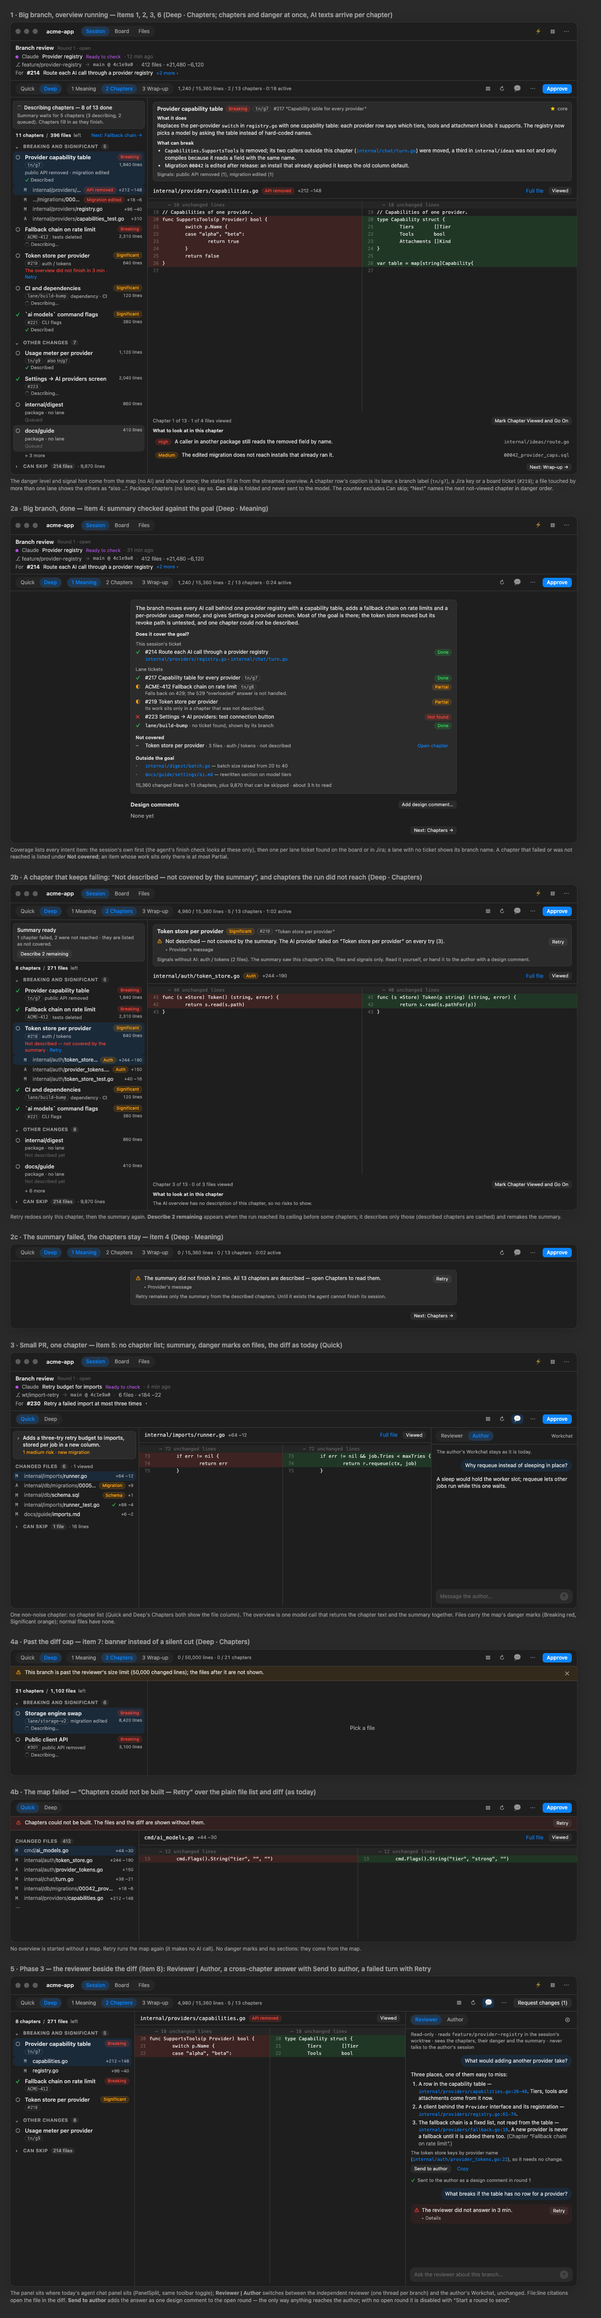
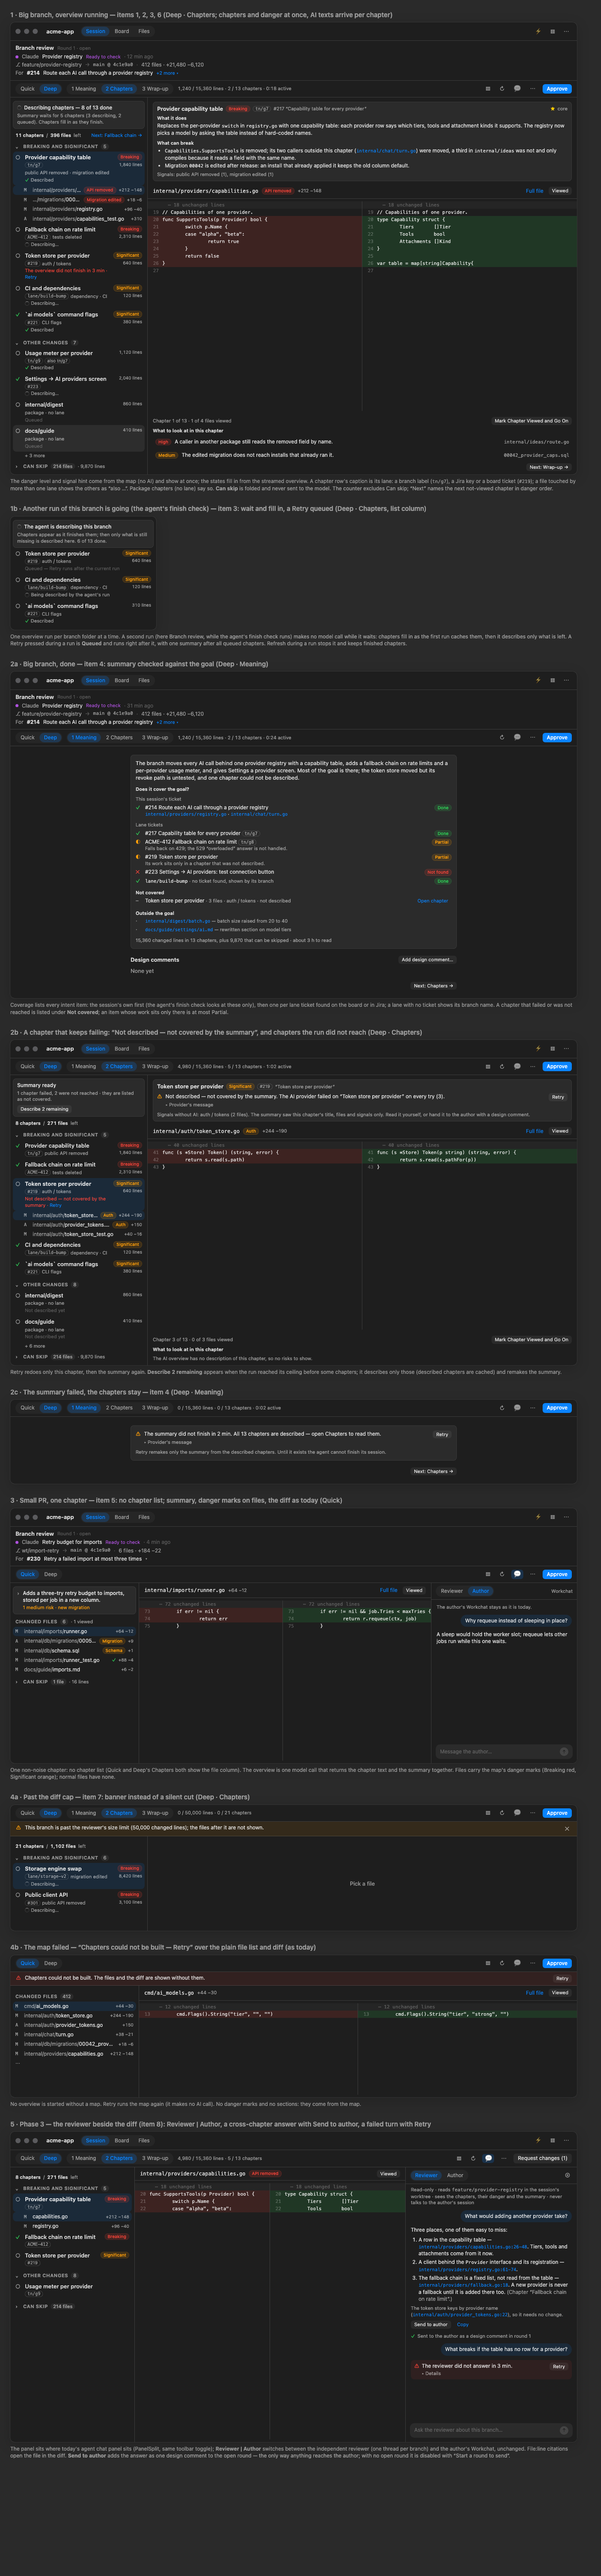
docs(spec): big-branch review — owner review of ask #569 (one run at a time, reviewer switch, done-when per item)

diff --git a/docs/design/mockups/big-branch-review/index.html b/docs/design/mockups/big-branch-review/index.html
@@ -327,6 +327,41 @@ h1.frame code { font-size: 12px; font-weight: 500; }
 </div>
 <p class="note">The danger level and signal hint come from the map (no AI) and show at once; the states fill in from the streamed overview. A chapter row's caption is its lane: a branch label (<span class="mono">tn/g7</span>), a Jira key or a board ticket (<span class="mono">#219</span>); a file touched by more than one lane shows the others as “also …”. Package chapters (no lane) say so. <b>Can skip</b> is folded and never sent to the model. The counter excludes Can skip; “Next” names the next not-viewed chapter in danger order.</p>
 
+<!-- ============================================================= 1b -->
+<h1 class="frame">1b · Another run of this branch is going (the agent's finish check) — item 3: wait and fill in, a Retry queued (Deep · Chapters, list column)</h1>
+<div class="win" style="width:340px">
+  <div class="body" style="grid-template-columns: 1fr; min-height: 0;">
+    <div class="col" style="border-right:none">
+      <div class="card">
+        <div style="display:flex;align-items:center;gap:6px;font-size:12px"><span class="spin"></span><b style="font-weight:500">The agent is describing this branch</b></div>
+        <div class="sec" style="font-size:11px;margin-top:3px">Chapters appear as it finishes them; then only what is still missing is described here. 6 of 13 done.</div>
+      </div>
+      <div class="ch">
+        <span class="ck">○</span>
+        <div><div class="t">Token store per provider</div>
+          <div class="meta"><span class="tag">#219</span><span>auth / tokens</span></div>
+          <div class="state wait">Queued — Retry runs after the current run</div></div>
+        <div class="r"><span class="chip orange">Significant</span><span class="lines">640 lines</span></div>
+      </div>
+      <div class="ch">
+        <span class="ck">○</span>
+        <div><div class="t">CI and dependencies</div>
+          <div class="meta"><span class="tag mono">lane/build-bump</span><span>dependency · CI</span></div>
+          <div class="state run"><span class="spin"></span>Being described by the agent's run</div></div>
+        <div class="r"><span class="chip orange">Significant</span><span class="lines">120 lines</span></div>
+      </div>
+      <div class="ch">
+        <span class="ck">○</span>
+        <div><div class="t">`ai models` command flags</div>
+          <div class="meta"><span class="tag">#221</span><span>CLI flags</span></div>
+          <div class="state ok"><span class="g">✓</span>Described</div></div>
+        <div class="r"><span class="lines">310 lines</span></div>
+      </div>
+    </div>
+  </div>
+</div>
+<p class="note">One overview run per branch folder at a time. A second run (here Branch review, while the agent's finish check runs) makes no model call while it waits: chapters fill in as the first run caches them, then it describes only what is left. A Retry pressed during a run is <b>Queued</b> and runs right after it, with one summary after all queued chapters. Refresh during a run stops it and keeps finished chapters.</p>
+
 <!-- ============================================================= 2a -->
 <h1 class="frame">2a · Big branch, done — item 4: summary checked against the goal (Deep · Meaning)</h1>
 <div class="win">

diff --git a/docs/superpowers/specs/2026-11-07-big-branch-review-design.md b/docs/superpowers/specs/2026-11-07-big-branch-review-design.md
@@ -47,6 +47,15 @@ with a 5-minute budget; when it runs out, everything is lost and Retry starts fr
    behind a disclosure; the log file gets only the error class and counts, never names or
    text (FILES-01). Finished chapters are cached and survive Retry, relaunch and Refresh;
    only chapters whose code changed are redone.
+   **One run at a time per branch folder.** The Desktop and the agent's finish check never
+   describe the same branch at once: a second run waits for the first, shows "The agent is
+   describing this branch — chapters appear as it finishes them" (or "Branch review is…"
+   for the agent), fills in each chapter the moment the first run caches it, and then calls
+   the model only for what is still missing — nothing is described twice. A Retry pressed
+   while a run is going does not start a second run: the chapter shows **Queued** and is
+   redone right after the run ends (several Retries go in one follow-up run, with one
+   summary after them). Refresh while a run is going stops it (finished chapters are kept)
+   and starts on the new state of the branch.
 4. **Checked against the goal.** A short summary on top checks the whole branch against the
    intent of its ticket(s) — the session's ticket and every lane's ticket found on the board
    or in Jira: done, partial, not found, and what was done outside the goal. The agent's
@@ -81,7 +90,10 @@ with a 5-minute budget; when it runs out, everything is lost and Retry starts fr
    author): one thread per branch, each turn a fresh call that gets a compact map of the
    branch (chapters, danger, summary, the open chapter) and reads the code itself. It
    answers "what breaks if…", "what would adding another provider take". An answer becomes
-   a comment for the author only when the owner presses **Send to author**. A failed or
+   a comment for the author only when the owner presses **Send to author**; with no open
+   round the button is disabled with "Start a round to send". The panel sits where today's
+   agent chat panel sits, and a **Reviewer | Author** switch flips it between the reviewer
+   and the author's Workchat, which stays as it is today. A failed or
    timed-out turn shows an error line with Retry, like the other embedded chats. To read a
    session that works in its own worktree, `ai query --read-folder` is widened from the
    workbench folder to that workbench's registered session worktrees (ask #560; amends the
@@ -124,27 +136,58 @@ with a 5-minute budget; when it runs out, everything is lost and Retry starts fr
 
 ## Done when
 
-- On a branch of ≈700 files Branch review shows chapters, the **Can skip** chapter and the
-  danger order within 30 s, with no AI; AI chapter texts arrive as they finish.
-- One chapter's call cut off by force leaves the others shown; its Retry redoes only it;
-  the cache survives a relaunch.
-- Tests on a large synthetic branch (hundreds of files plus fixtures) and on "one chapter
-  failed".
-- A branch past 50k changed lines shows the size banner; a one-chapter PR shows no chapter
-  list and makes exactly one model call.
-- The summary's failure leaves the chapters shown and its Retry redoes only the summary.
-- A chapter that fails on every try still gets a summary, with that chapter under **Not
-  covered**; the agent's session can still be finished (with a handover ask).
-- With the map command failing, the review shows the plain file list, the diff and the
-  "Chapters could not be built — Retry" banner; Retry rebuilds the chapters.
-- Every new state (chapter list with danger sections, chapter states, **Can skip**,
-  summary and its failure, both banners, the one-chapter PR, the reviewer panel) matches
-  the mockups in `docs/design/mockups/big-branch-review/` and uses the design kit's shared
-  empty, loading and error states.
-- Phase 3: the reviewer answers a cross-chapter question from a session in its own
-  worktree, its failed turn shows Retry, and **Send to author** adds one design comment to
-  the open round — nothing reaches the author's session without that press.
-- REVIEW-01 changes only as listed above; REVIEW-02..05 unchanged.
+Each item above has its check; the timing and size checks run on a synthetic branch of
+≈700 files plus fixtures (hundreds of files, several lanes, one nested integration lane).
+
+1. **Chapters at once.** On that branch Branch review shows chapters, the **Can skip**
+   chapter and the danger order within 30 s, with no AI call. Lane chapters carry their
+   ticket's title (board target or synced Jira issue); a lane with no ticket found shows its
+   branch name; a single-author branch with no lanes gets package chapters with today's keys;
+   a large lane is split by package; a file touched by two lanes sits in one chapter and shows
+   the other lane as a label. No **Can skip** file is ever in a model call's input.
+2. **Danger first.** Every listed signal is detected by its own test (an `api_removed` test
+   also proves a rename in place does not fire); a pattern in `.watchtower/review-map.md`
+   moves a chapter's level or into **Can skip**; the list shows **Breaking and significant**
+   first and **Can skip** last.
+3. **AI per chapter.** The run's parallel calls and time limits follow the table of the
+   technical spec (unit-tested for 1, 4 and 20 batches). One chapter's call cut off by force
+   leaves the others shown with a plain error line; its Retry redoes only it and then the
+   summary; chapters a run did not reach show **Describe N remaining**, which describes only
+   them. Described chapters survive a relaunch and Refresh; after an edit to one file only its
+   chapter is redone. The log file gets only the error class and counts (a FILES-01 canary
+   test); the provider's text is behind the disclosure.
+   **One run at a time:** with the agent's run going, the Desktop's run waits, fills in its
+   chapters as they are cached and then makes calls only for what is missing (a test counts
+   model calls: none twice); Retry during a run shows **Queued** and runs after it; Refresh
+   during a run stops it and keeps finished chapters.
+4. **Goal check.** The summary's coverage lists the session's ticket items and every lane
+   ticket's items; the agent's finish check fails only on the session's own items. A chapter
+   that fails on every try still gets a summary with that chapter under **Not covered** (its
+   items at most partial) and the session can still be finished with a handover ask. The
+   summary's failure leaves the chapters shown and its own Retry redoes only the summary.
+   Jira titles come from the local database (no network call in the test).
+5. **Small and big, one path.** A one-chapter PR shows no chapter list and makes exactly one
+   model call; the synthetic branch's batches stay ≤ 2,500 lines and every chapter is in
+   exactly one; an oversized chapter is cut by danger with "(+N lines not shown)", never
+   dropped.
+6. **Reading progress.** "N chapters / M files left" counts down as files and chapters are
+   marked Viewed (**Can skip** excluded); Next names the next not-viewed chapter in danger
+   order.
+7. **Honest limits.** A branch past 50k changed lines shows the size banner. With the map
+   command failing, the review shows the plain file list, the diff and "Chapters could not be
+   built — Retry"; Retry rebuilds the chapters.
+8. **Reviewer (phase 3).** It answers a cross-chapter question from a session in its own
+   worktree; a folder that is not the workbench's or one of its registered session worktrees
+   is refused; its failed turn shows Retry; **Send to author** adds one design comment to the
+   open round and is disabled with "Start a round to send" without one; nothing reaches the
+   author's session without that press; the **Reviewer | Author** switch keeps the author's
+   Workchat as it is.
+
+For every item: each new state (danger sections, chapter states incl. **Queued** and
+waiting for another run, **Can skip**, summary and its failure, both banners, the
+one-chapter PR, the reviewer panel) matches the mockups in
+`docs/design/mockups/big-branch-review/` and uses the design kit's shared empty, loading and
+error states. REVIEW-01 changes only as listed above; REVIEW-02..05 unchanged.
 
 ## Decisions
 
@@ -179,6 +222,11 @@ with a 5-minute budget; when it runs out, everything is lost and Retry starts fr
   reading position of rounds made before this release is lost; keeping `ai:` keys alive
   would need a second chapter source just for them.
 - Chapters a run did not reach get **Describe N remaining** — agent's call.
+- One overview run per branch folder at a time; a second waits and reuses what the first
+  caches, a Retry during a run is queued — agent's call, after ask #569 asked whether two
+  runs or a Retry can interleave.
+- The reviewer shares the agent chat panel's place with a **Reviewer | Author** switch —
+  agent's call (mockup), written into item 8 after ask #569.
 
 ## What the spike showed (lane attribution, no AI)
 
